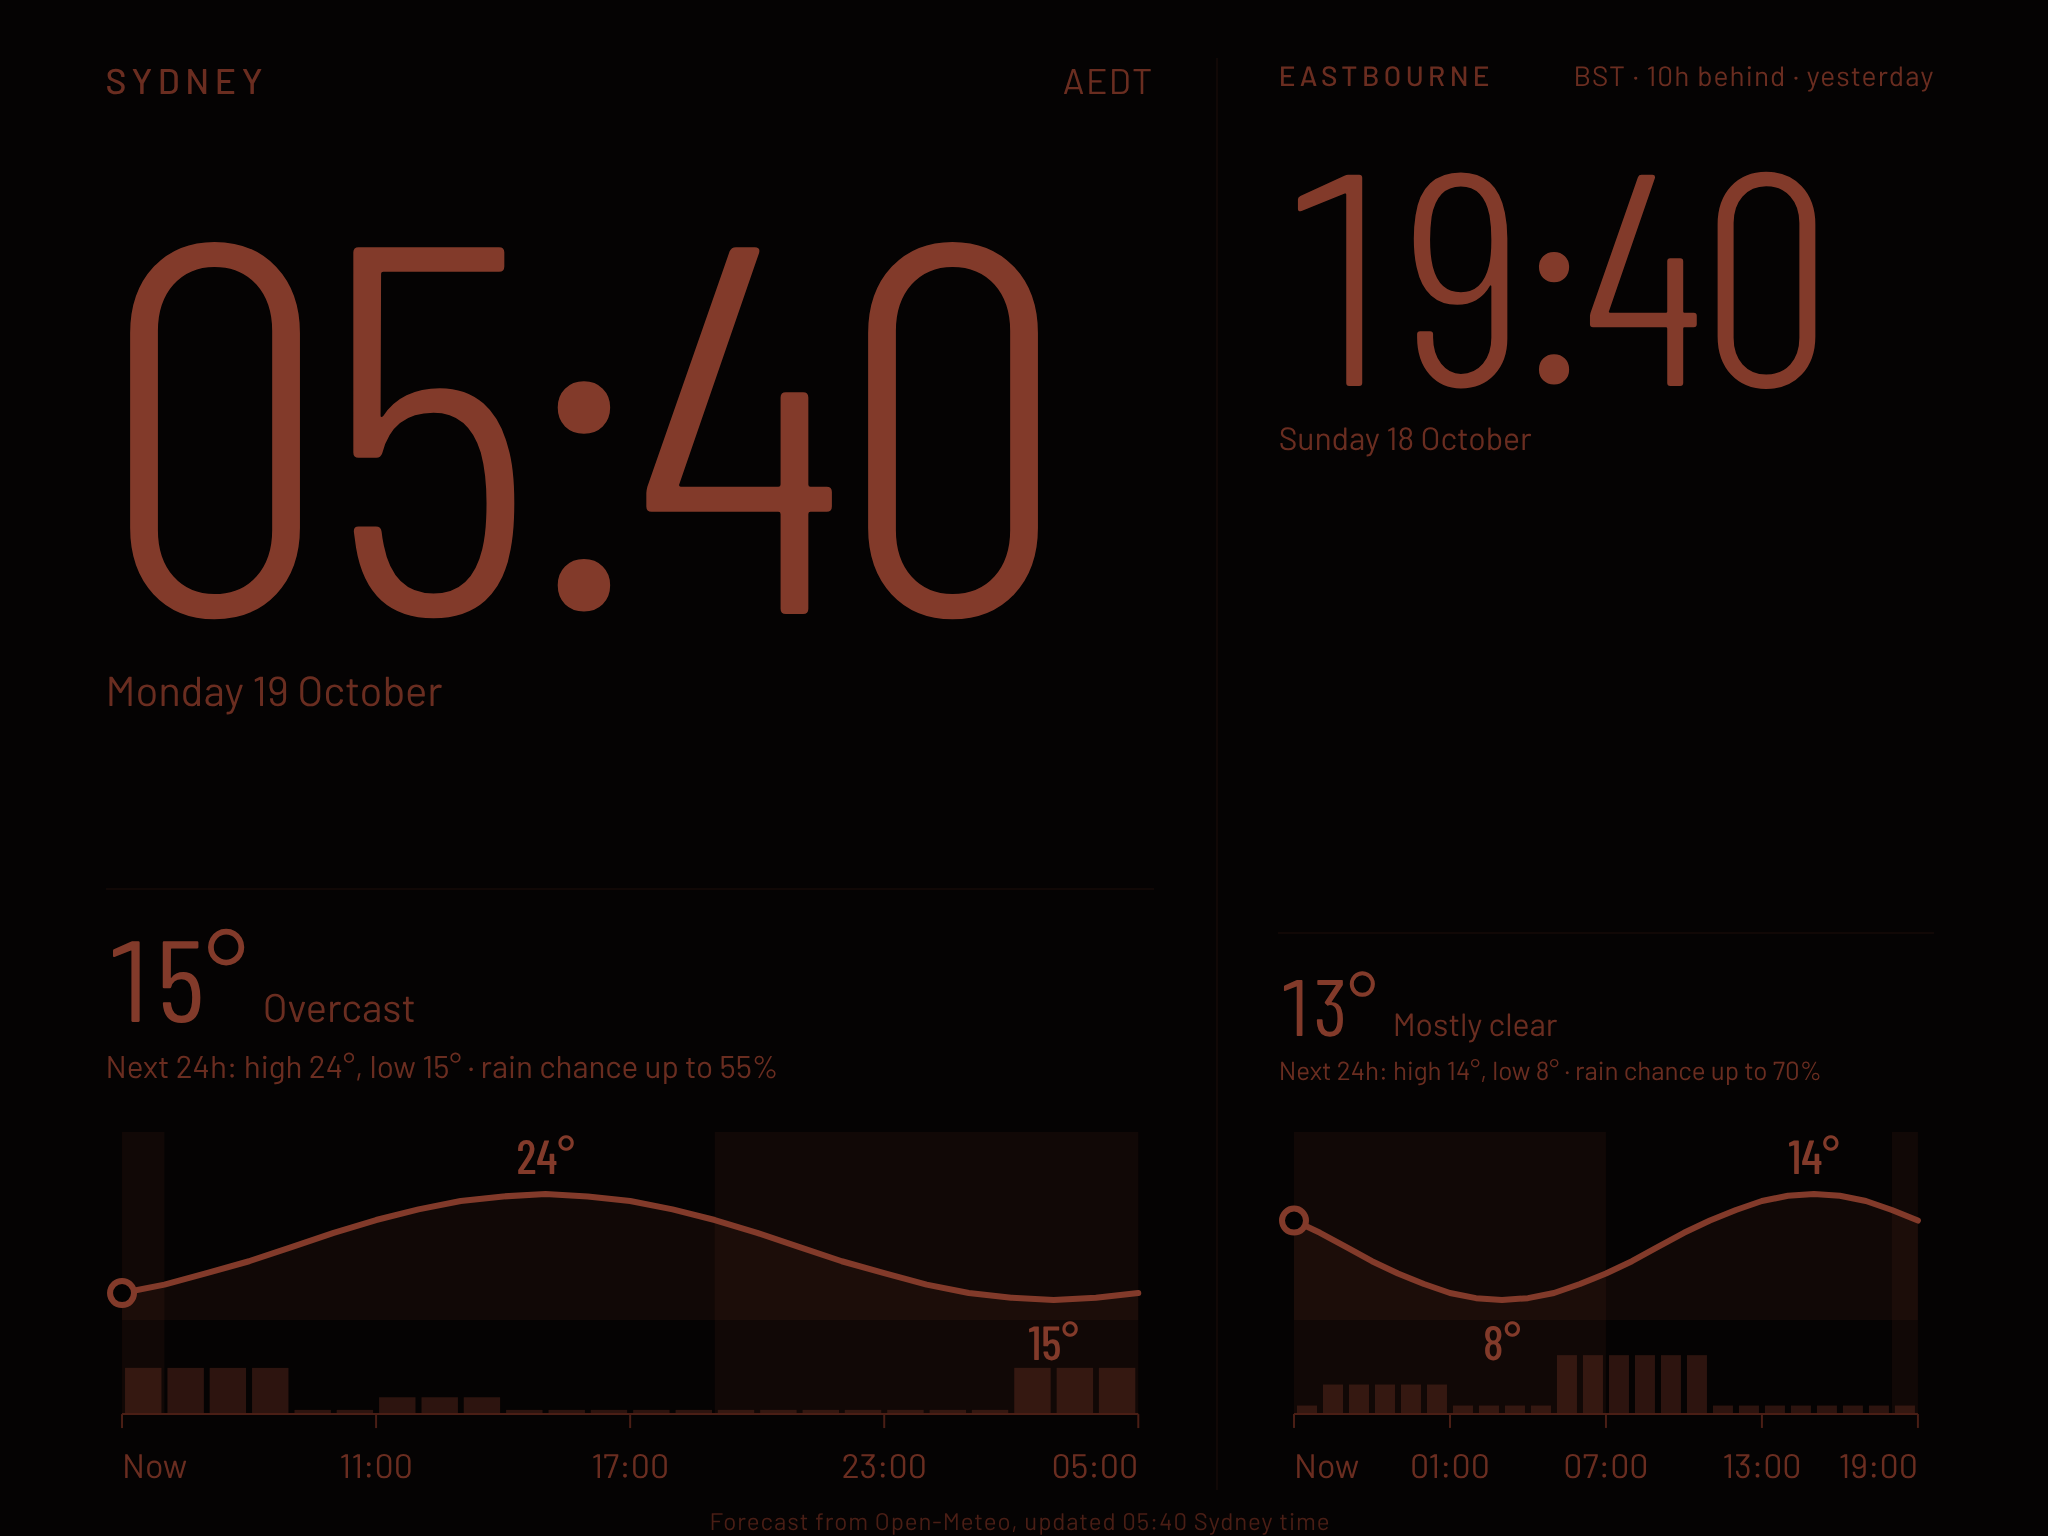
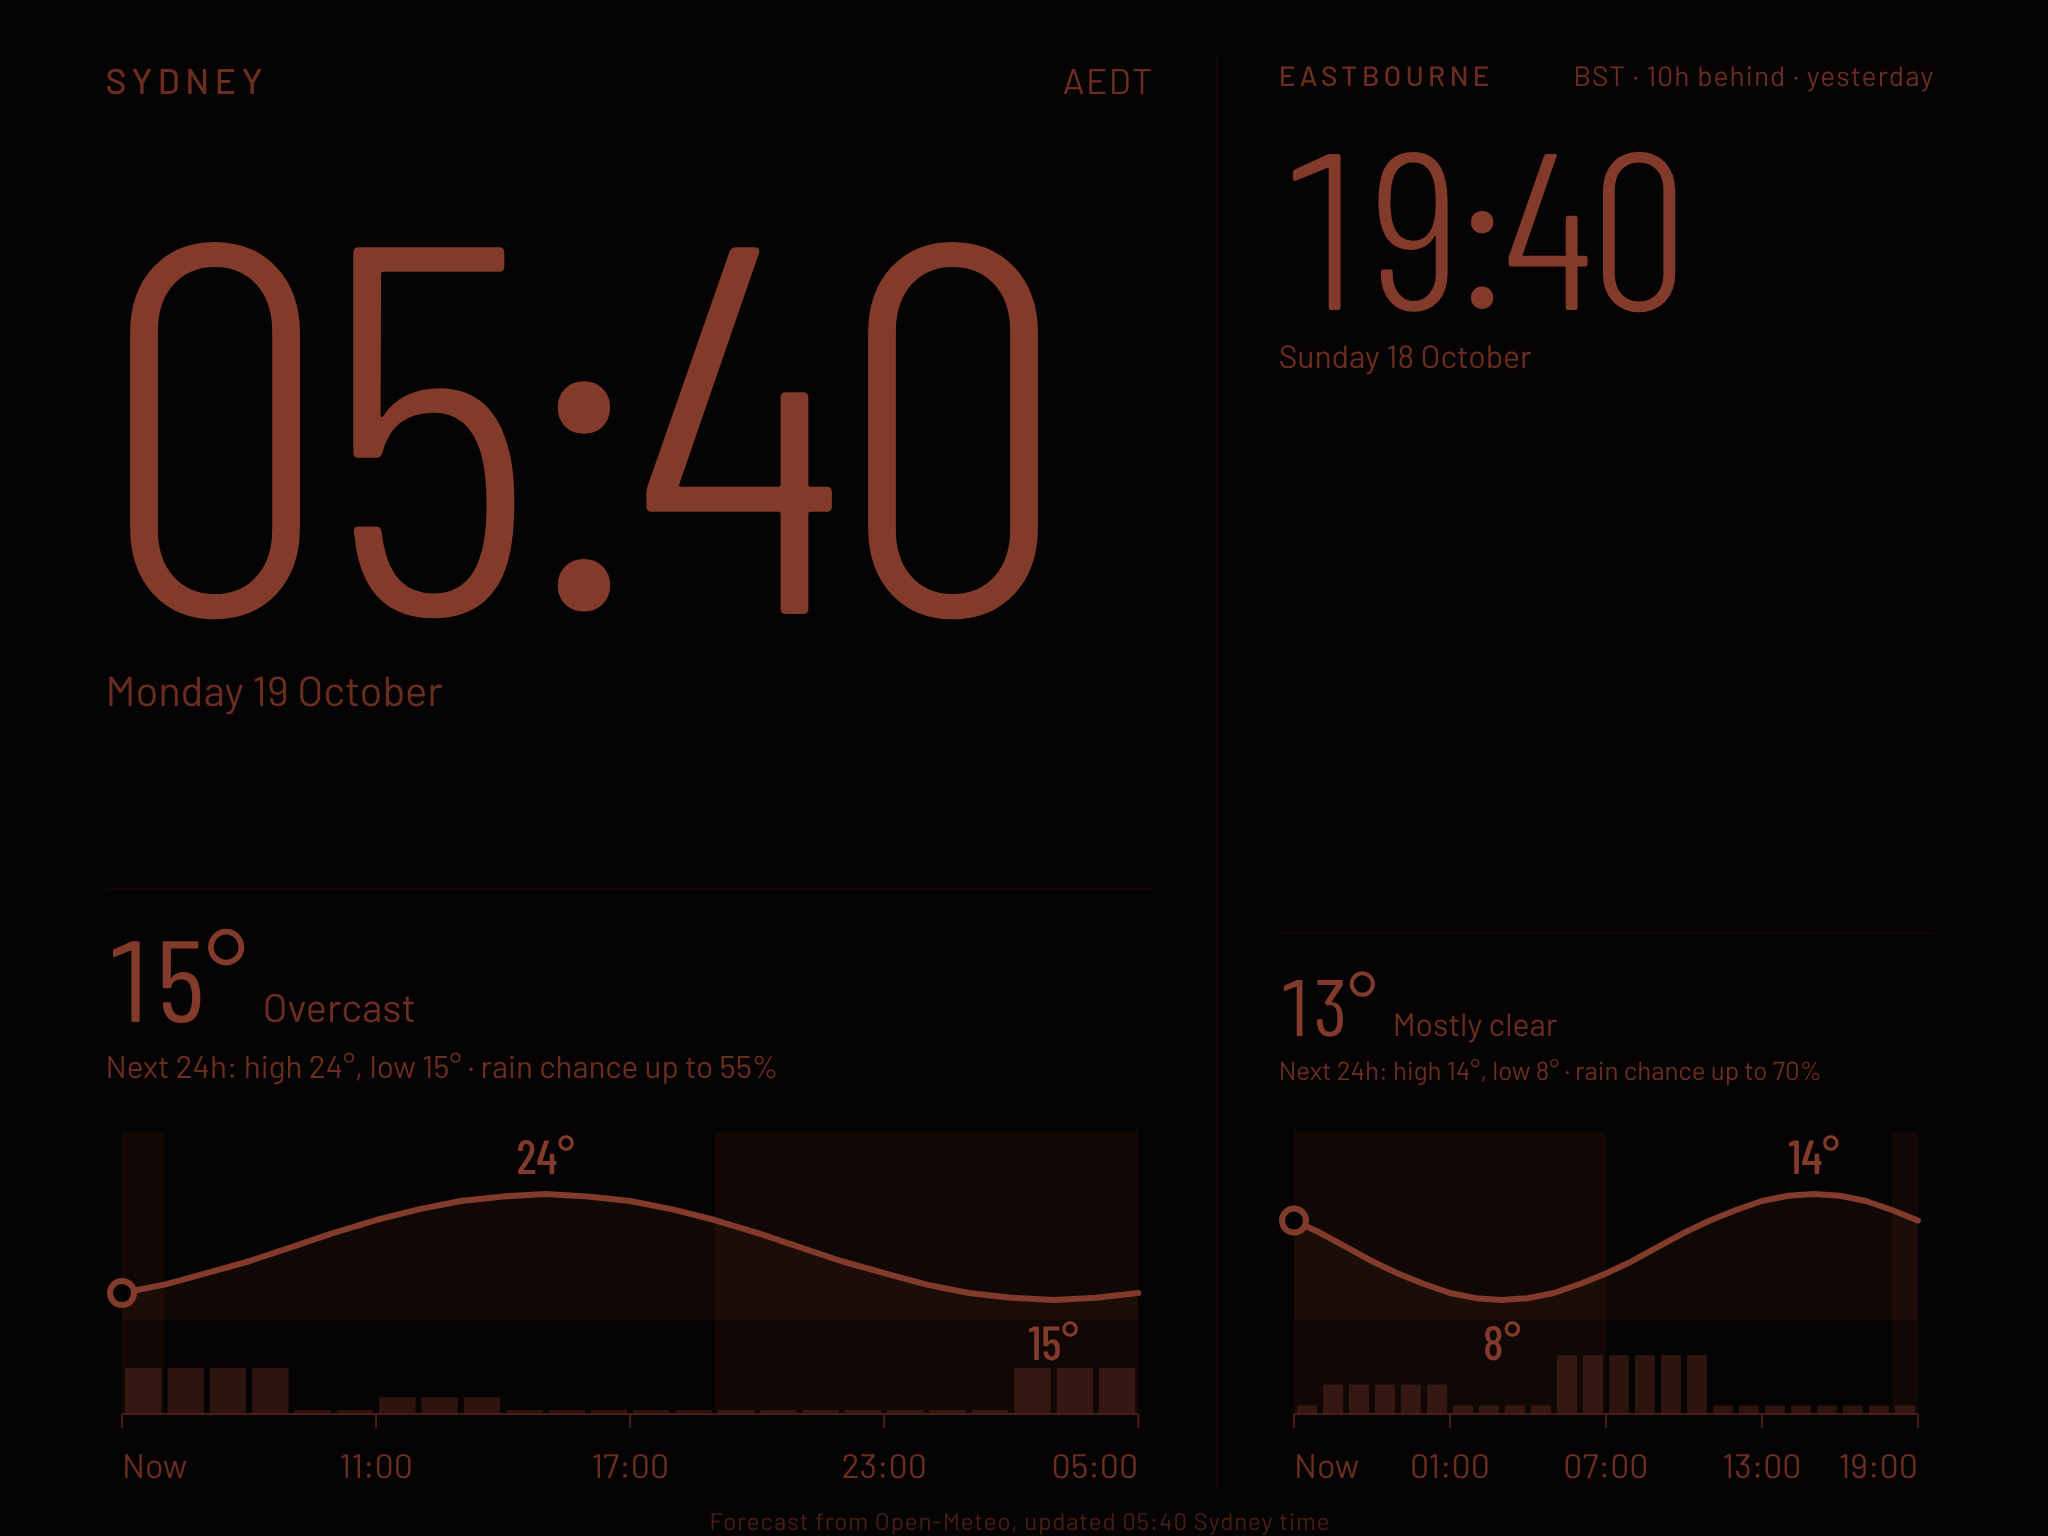
Make Sydney digits larger than Eastbourne digits
Customer feedback: Sydney should dominate. Eastbourne digits reduced
relative to the column, Sydney unchanged.

Claude-Session: https://claude.ai/code/session_01LHKBPoX4shMzbvKjK3tPdX

Changed region(s): [[0.625, 0.0938, 0.9062, 0.25], [0.625, 0.2812, 0.75, 0.3125]]

diff --git a/styles.css b/styles.css
@@ -75,7 +75,7 @@ body { font-family: var(--body); }
 .time {
   font-family: var(--display);
   font-weight: 300;
-  font-size: 46cqw;
+  font-size: 34cqw;
   line-height: 0.92;
   letter-spacing: -0.01em;
   white-space: nowrap;
@@ -188,7 +188,7 @@ body { font-family: var(--body); }
   #app { padding-top: max(20px, env(safe-area-inset-top)); padding-bottom: max(24px, env(safe-area-inset-bottom)); }
   .city { gap: 8px; }
   #city-syd .time { font-size: 21cqw; }
-  #city-uk .time { font-size: 18cqw; }
+  #city-uk .time { font-size: 16cqw; }
   .wx { padding-top: 8px; }
   .wx-temp { font-size: 52px; }
 }

diff --git a/docs/requirements.md b/docs/requirements.md
@@ -84,3 +84,4 @@ Status key: Built means the code exists and passed my own render checks. Accepte
 | Date | Increment | Feedback | Decision |
 |------|-----------|----------|----------|
 | 19 Oct 2026 | 1 | Landscape, 24 hour, locations Eastbourne and Earlwood, repo named night-clock | Applied the same day |
+| 19 Oct 2026 | 1 | Make Sydney's digits larger than Eastbourne's | Sydney is now about 2.3 times the height of Eastbourne in landscape |
